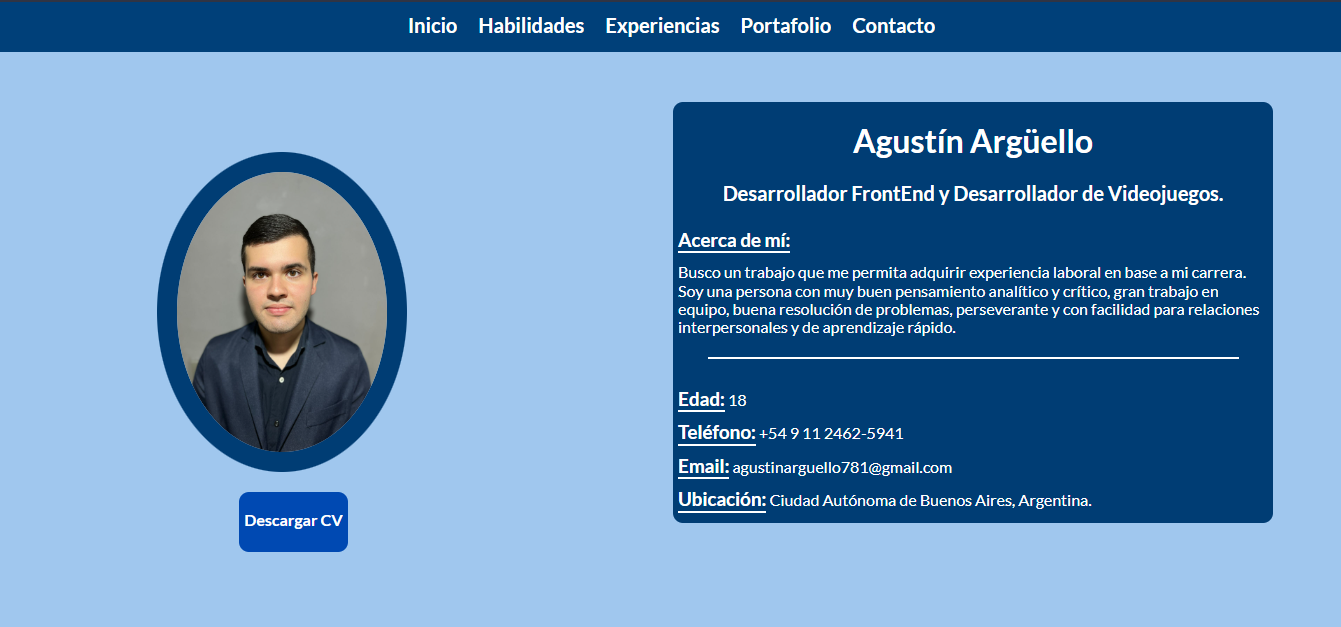
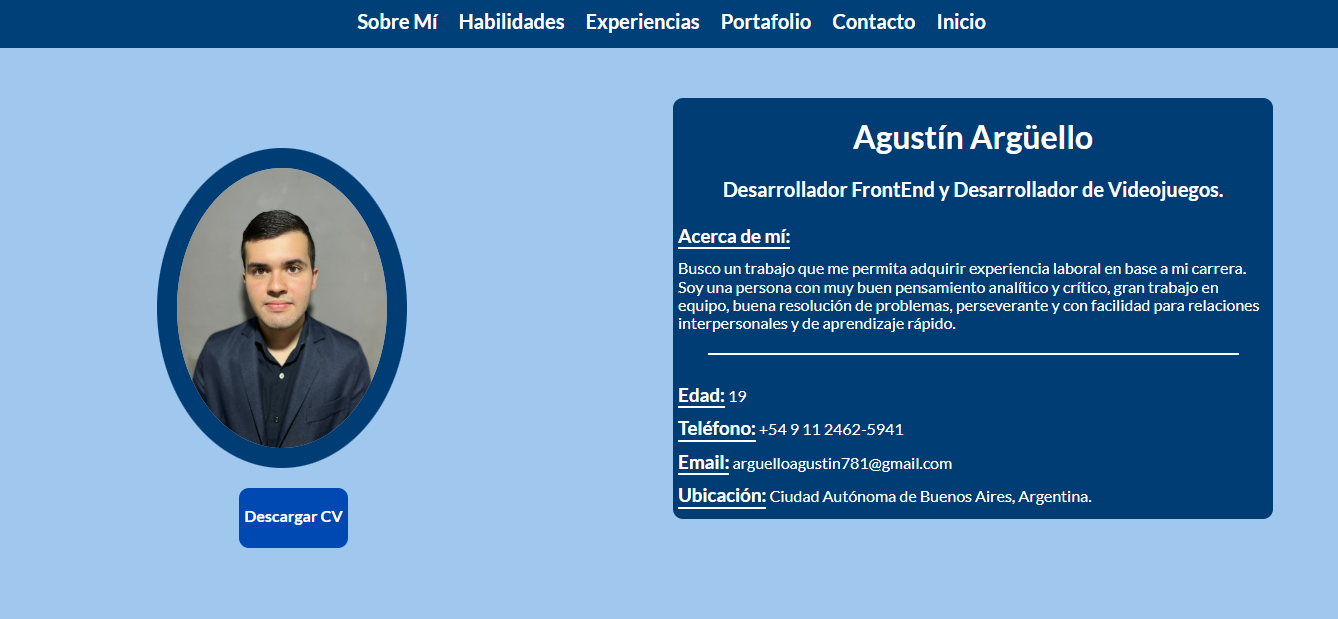
Add files via upload
Añadida nueva posición de Trabajo, edad actualizada.

diff --git a/WebPortfolio/CvWebEsp.html b/WebPortfolio/CvWebEsp.html
@@ -51,13 +51,13 @@
                     <p class = "flex-container-home__about-info-p1">Busco un trabajo que me permita adquirir experiencia laboral en base a mi carrera. Soy una persona con muy buen pensamiento analítico y crítico, gran trabajo en equipo, buena resolución de problemas, perseverante y con facilidad para relaciones interpersonales y de aprendizaje rápido.</p>
                     <div class = "flex-container-home__about-info-post-p1">
                         <h3>Edad:</h3>
-                        <p class = "flex-container-home__about-info-post-p1-p">18</p>
+                        <p class = "flex-container-home__about-info-post-p1-p">19</p>
                         <br>
                         <h3>Teléfono:</h3>
                         <p class = "flex-container-home__about-info-post-p1-p">+54 9 11 2462-5941</p>
                         <br>
                         <h3>Email:</h3>
-                        <p class = "flex-container-home__about-info-post-p1-p">agustinarguello781@gmail.com</p>
+                        <p class = "flex-container-home__about-info-post-p1-p">arguelloagustin781@gmail.com</p>
                         <br>
                         <h3>Ubicación:</h3>
                         <p class = "flex-container-home__about-info-post-p1-p">Ciudad Autónoma de Buenos Aires, Argentina.</p>
@@ -147,6 +147,12 @@
             </div>
             <div class = "grid-item-exp__lab">
                 <h2>Experiencia Laboral</h2>
+                <h3>Profesor de Robótica</h3>
+                <h4>Colegio San José, Balvanera, Ciudad Autónoma de Buenos Aires</h4>
+                <p>Dictado de Clases para alumnos de 1er y 2do año.</p>
+                <p>Enseño PseInt y Python como lenguajes de programación.</p>                
+                <p>Cubro temas como Pseudocódigo, Fundamentos de Programación, Programación Orientada a Objetos (POO) y Programación Estructurada.</p>
+                <br>
                 <h3>Profesor Particular</h3>
                 <h4>Centro Político Cultural Joaquín Areta, Ciudad Autónoma de Buenos Aires</h4>
                 <p>Dictado de clases de apoyo a alumnos con dificultades para el aprendizaje.</p>

diff --git a/WebPortfolio/WebResumeEng.html b/WebPortfolio/WebResumeEng.html
@@ -51,13 +51,13 @@
                 <p class = "flex-container-home__about-info-p1">I'm looking for a job that allows me to acquire work experience based on my career. I'm a responsible and self-taught person, with good problem solving, critical and analytical thinking, great teamwork, and empathetic.</p>
                 <div class = "flex-container-home__about-info-post-p1">
                     <h3>Age:</h3>
-                    <p class = "flex-container-home__about-info-post-p1-p">18</p>
+                    <p class = "flex-container-home__about-info-post-p1-p">19</p>
                     <br>
                     <h3>Phone:</h3>
                     <p class = "flex-container-home__about-info-post-p1-p">+54 9 11 2462-5941</p>
                     <br>
                     <h3>Email:</h3>
-                    <p class = "flex-container-home__about-info-post-p1-p">agustinarguello781@gmail.com</p>
+                    <p class = "flex-container-home__about-info-post-p1-p">arguelloagustin781@gmail.com</p>
                     <br>
                     <h3>Location:</h3>
                     <p class = "flex-container-home__about-info-post-p1-p">Ciudad Autónoma de Buenos Aires, Argentina.</p>
@@ -144,6 +144,12 @@
             </div>
             <div class = "grid-item-exp__work">
                 <h2>Work Experience</h2>
+                <h3>Robotics Tutor</h3>
+                <h4>Colegio San José, Balvanera, Ciudad Autónoma de Buenos Aires</h4>
+                <p>Teach robotics classes to 9th and 10th-grade students.</p>
+                <p>Instruct in PseInt and Python programming languages.</p>
+                <p>Cover topics such as Pseudocode, Programming Fundamentals, Object-Oriented Programming (OOP), and Structured Programming.</p>
+                <br>
                 <h3>Tutor</h3>
                 <h4>Centro Político Cultural Joaquín Areta, Ciudad Autónoma de Buenos Aires</h4>
                 <p>Support Classes for students with learning difficulties.</p>

diff --git a/WebPortfolio/CSS/styleEsp.css b/WebPortfolio/CSS/styleEsp.css
@@ -453,7 +453,7 @@ a[download = "CV"] {
 
 .grid-item-exp__lab {
     width: 500px;
-    height: 230px;
+    height: 375px;
     padding: 10px;
     justify-self: center;
     background: #003d74;
@@ -956,9 +956,15 @@ a[download = "CV"] {
                             "lab lab";
     }
 
-    .grid-item-exp__ed, .grid-item-exp__conc, .grid-item-exp__lab {
+    .grid-item-exp__ed, .grid-item-exp__conc {
         width: 300px;
         height: 320px;
+        padding: 10px;
+    }
+
+    .grid-item-exp__lab {
+        width: 300px;
+        height: 470px;
         padding: 10px;
     }
 

diff --git a/WebPortfolio/CSS/styleEng.css b/WebPortfolio/CSS/styleEng.css
@@ -454,7 +454,7 @@ body {
 
 .grid-item-exp__work {
     width: 500px;
-    height: 230px;
+    height: 350px;
     padding: 10px;
     justify-self: center;
     background: #003d74;
@@ -978,9 +978,15 @@ body {
                             "work work";
     }
 
-    .grid-item-exp__ed, .grid-item-exp__comp, .grid-item-exp__work {
+    .grid-item-exp__ed, .grid-item-exp__comp {
         width: 300px;
         height: 320px;
+        padding: 10px;
+    }
+
+    .grid-item-exp__work {
+        width: 300px;
+        height: 470px;
         padding: 10px;
     }
 
